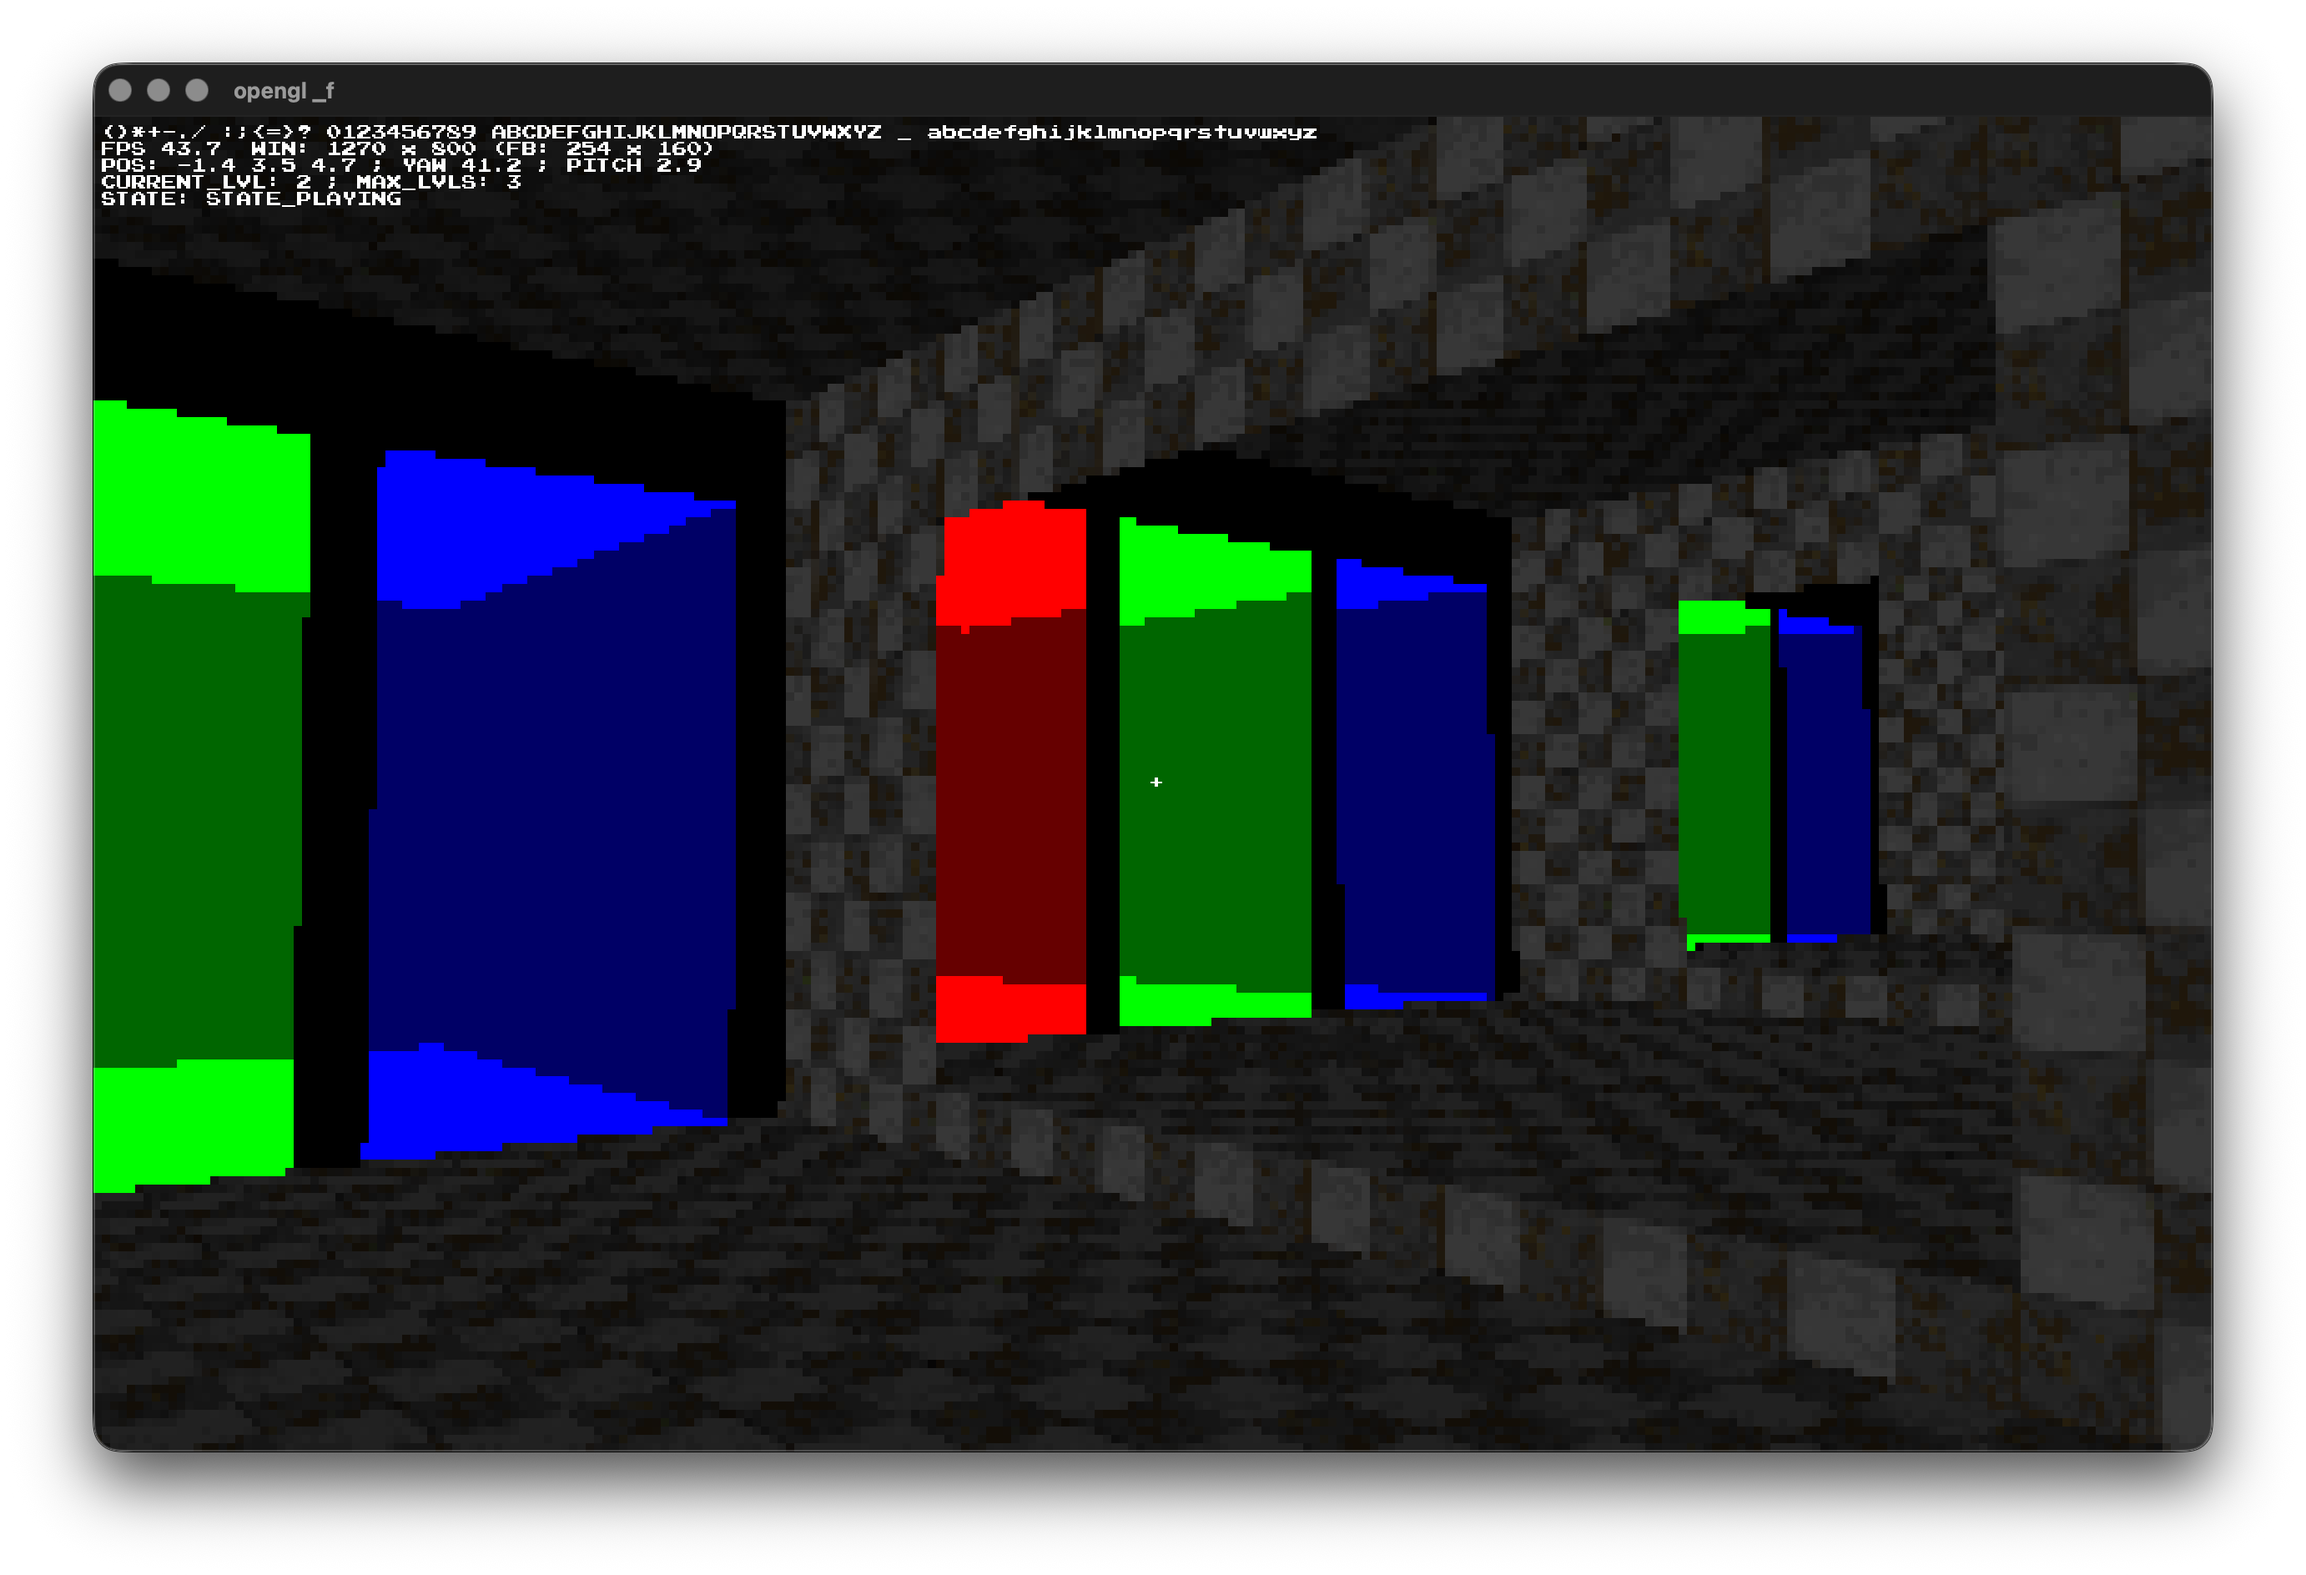
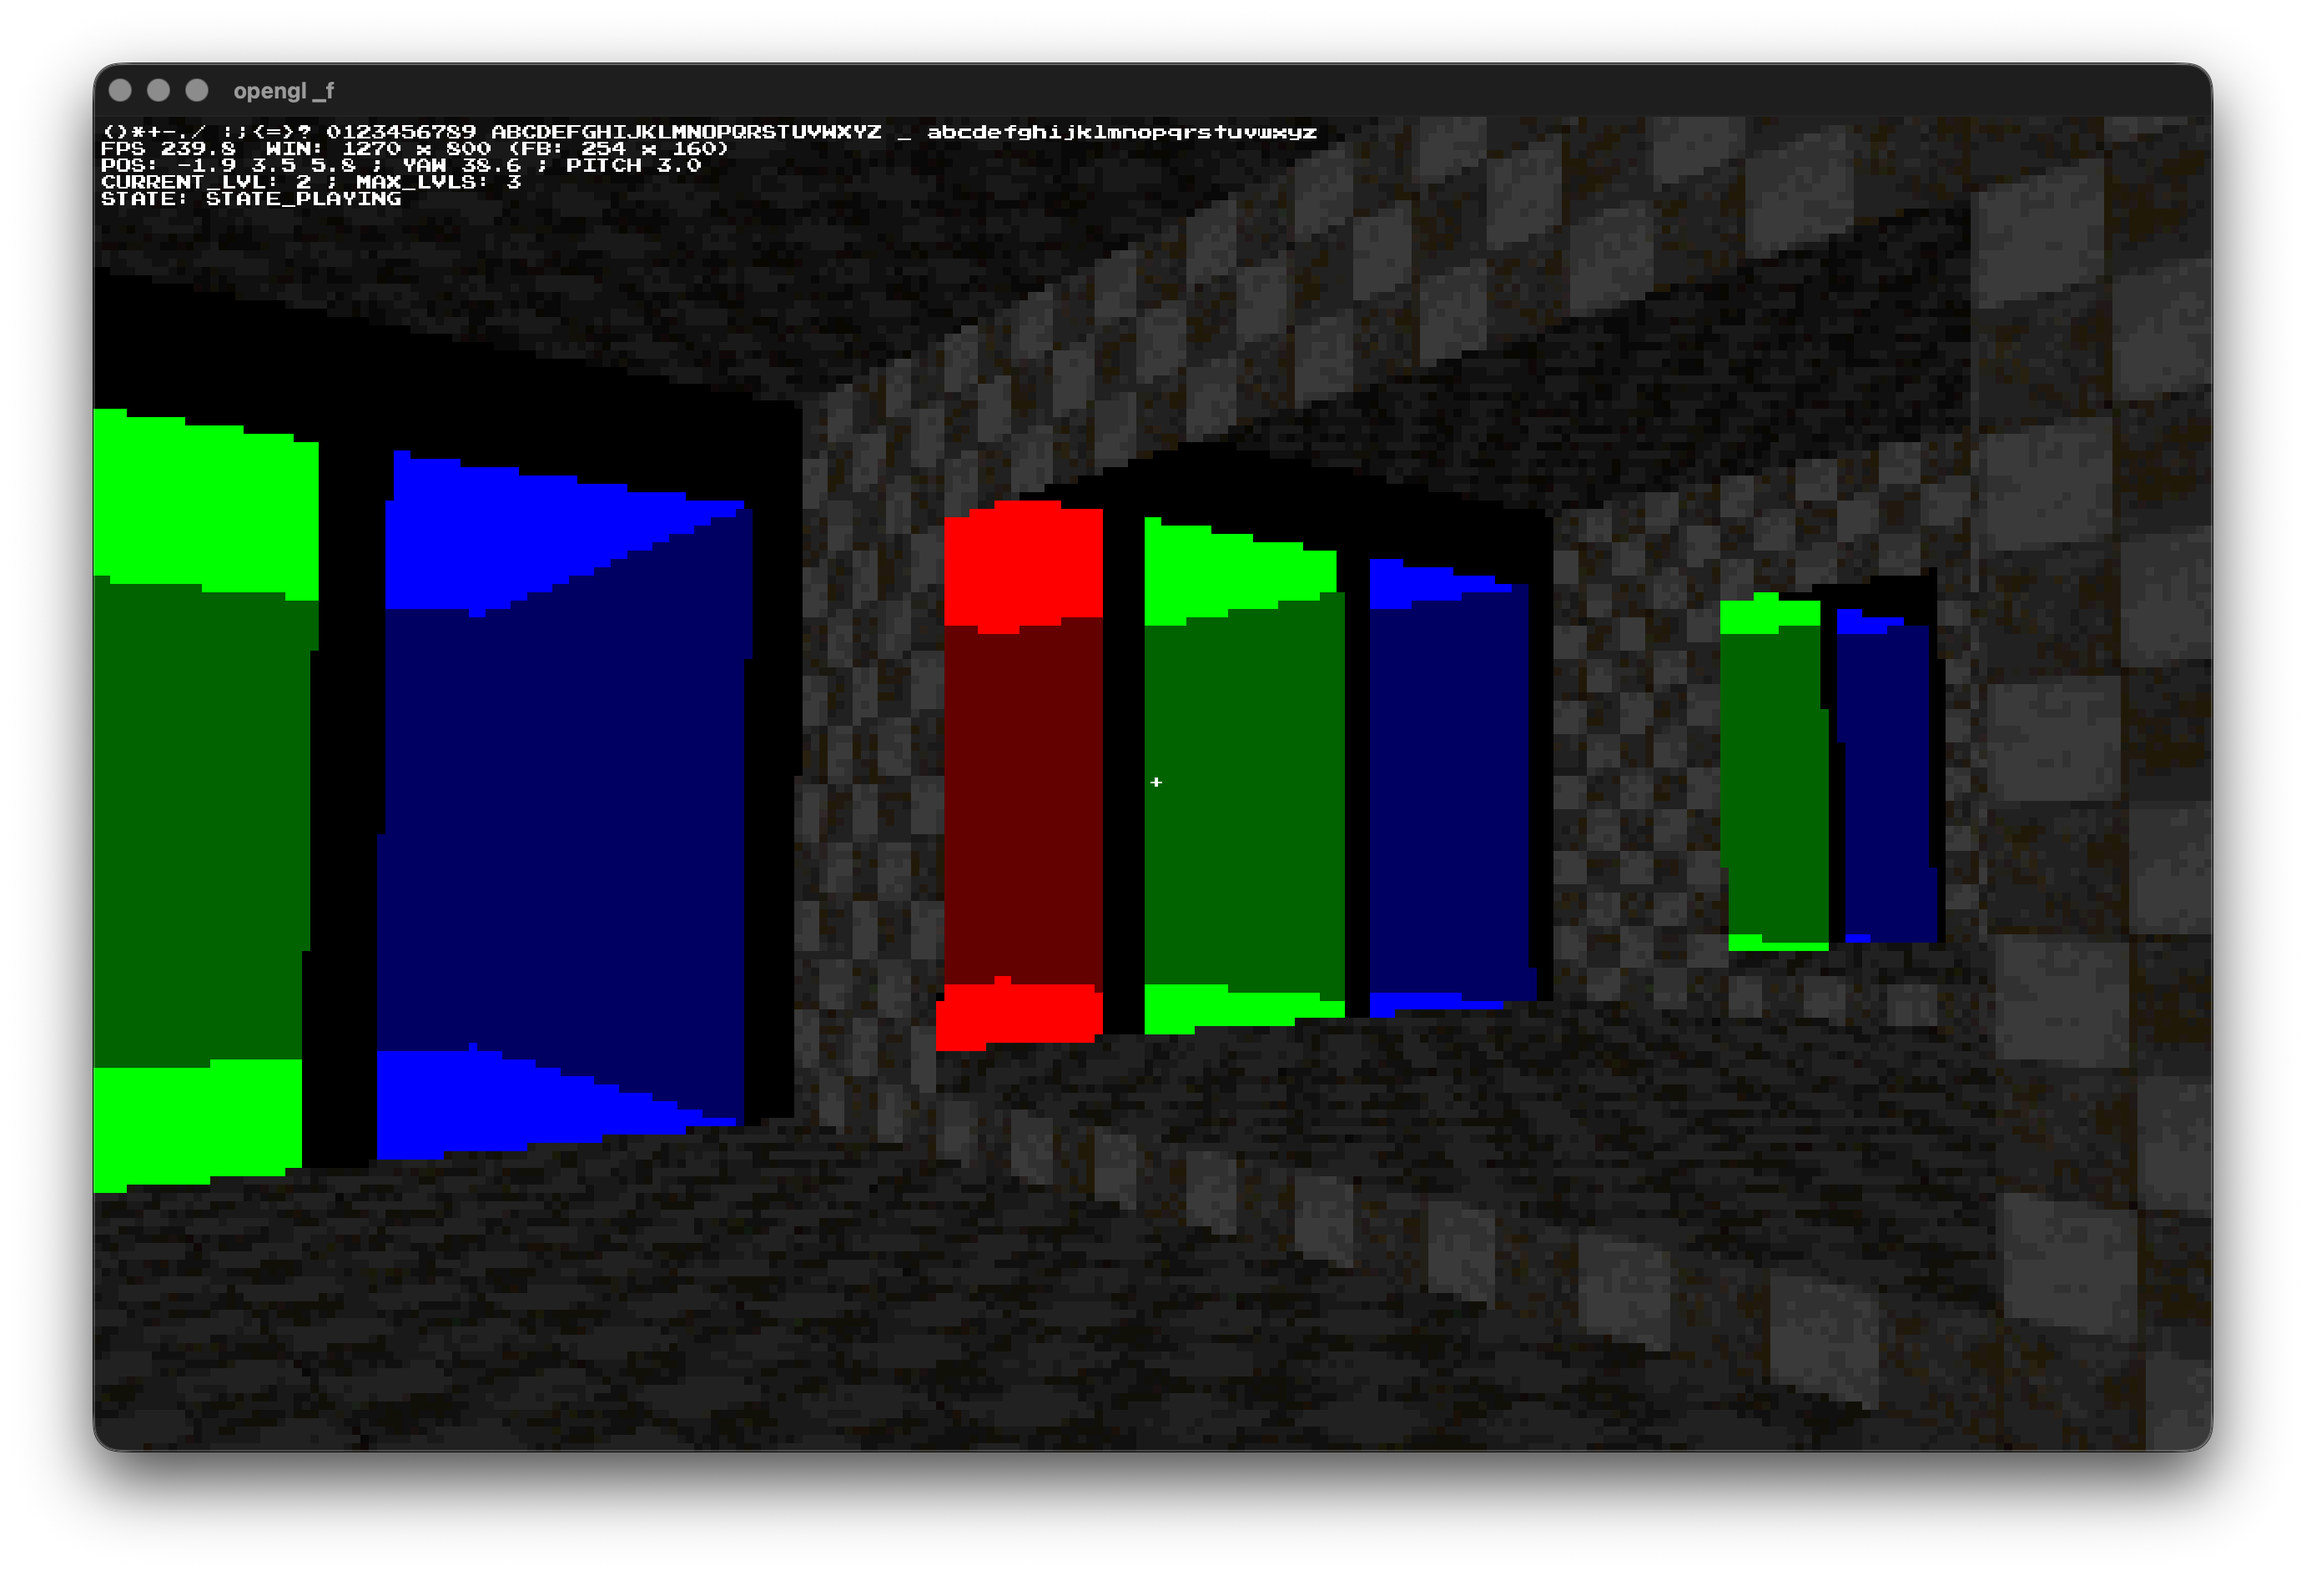
picture day

diff --git a/Engine/res/level2.h b/Engine/res/level2.h
@@ -61,7 +61,7 @@ static inline level_data_t load_2(void)
         .path = "level2.h",
         .sectors = level2_sectors,
         .sector_count = sizeof(level2_sectors) / sizeof(level2_sectors[0]),
-        .cam = { .pos = {2.611f, 3.500f, 13.077f}, .yaw = -27.903f, .pitch = -0.808f }
+        .cam = { .pos = {-1.887f, 3.500f, 5.788f}, .yaw = 38.597f, .pitch = 2.992f }
     };
 }
 
